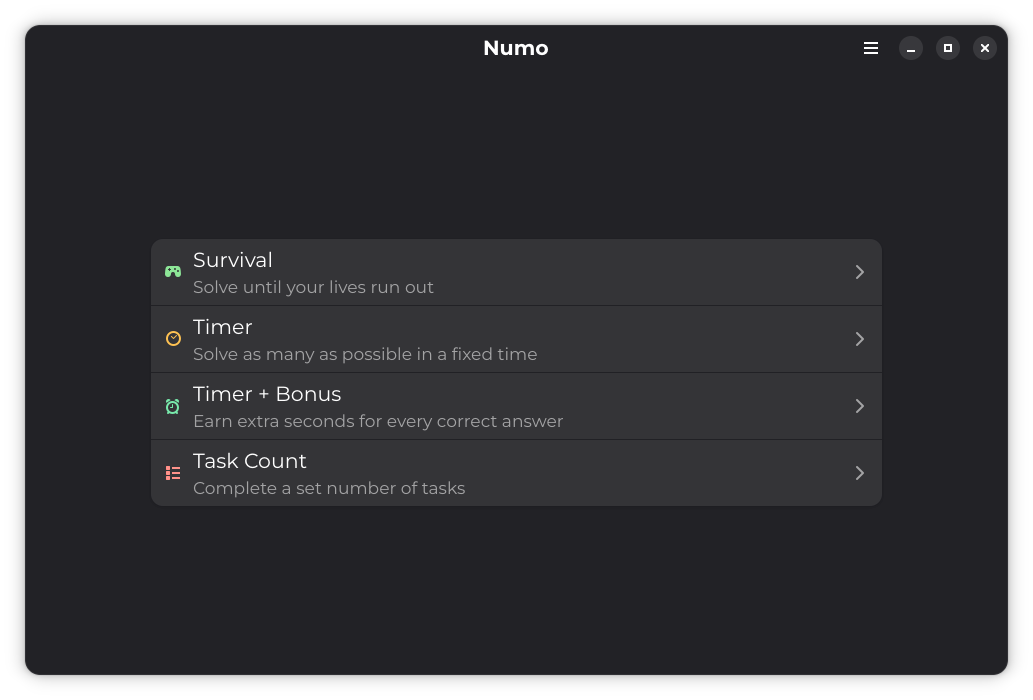
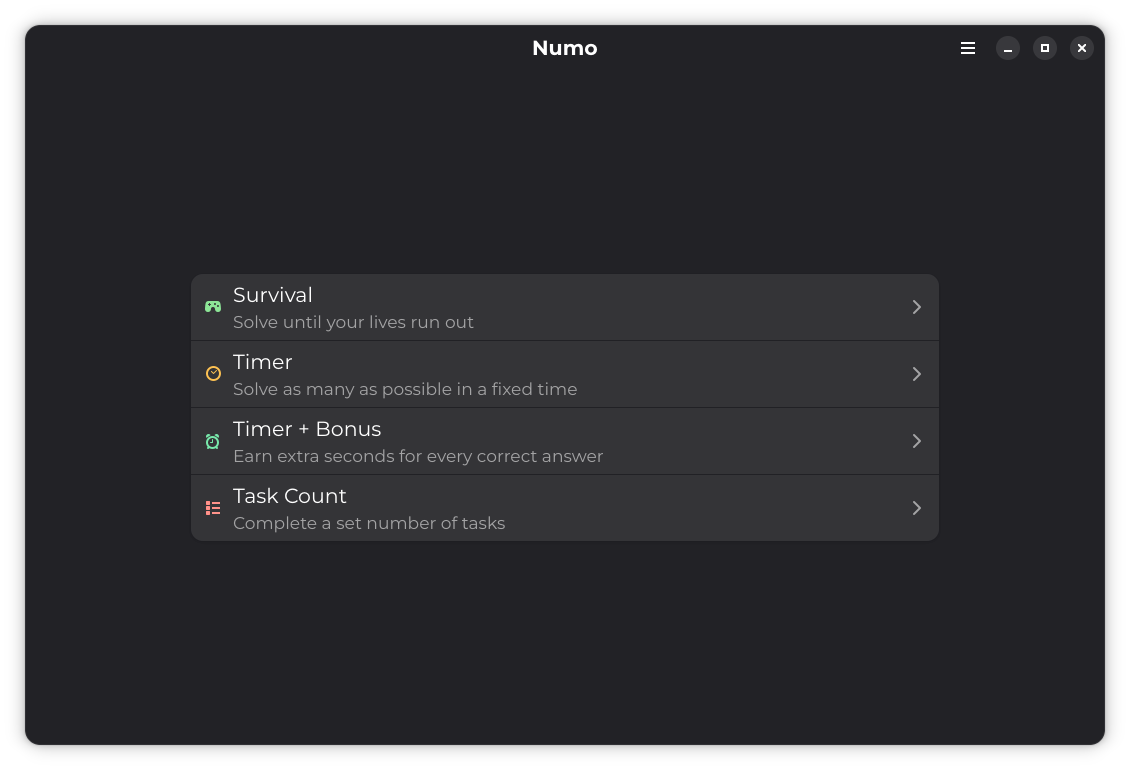
update readme

diff --git a/README.md b/README.md
@@ -10,7 +10,7 @@
 
 **Mental math training**
 
-<img src="/data/screenshots/readme.png" width="670" height="500" alt="Main page">
+<img src="data/screenshots/readme.png"  width="1080" height="700"  alt="Main page">
 
 </div>
 
